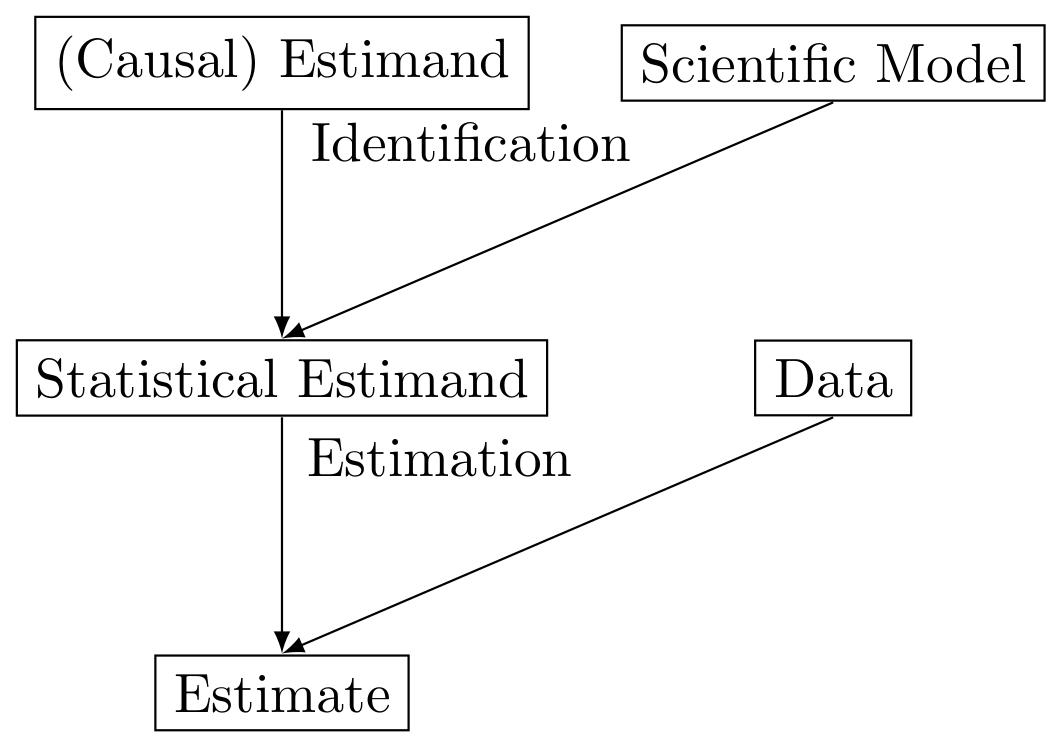
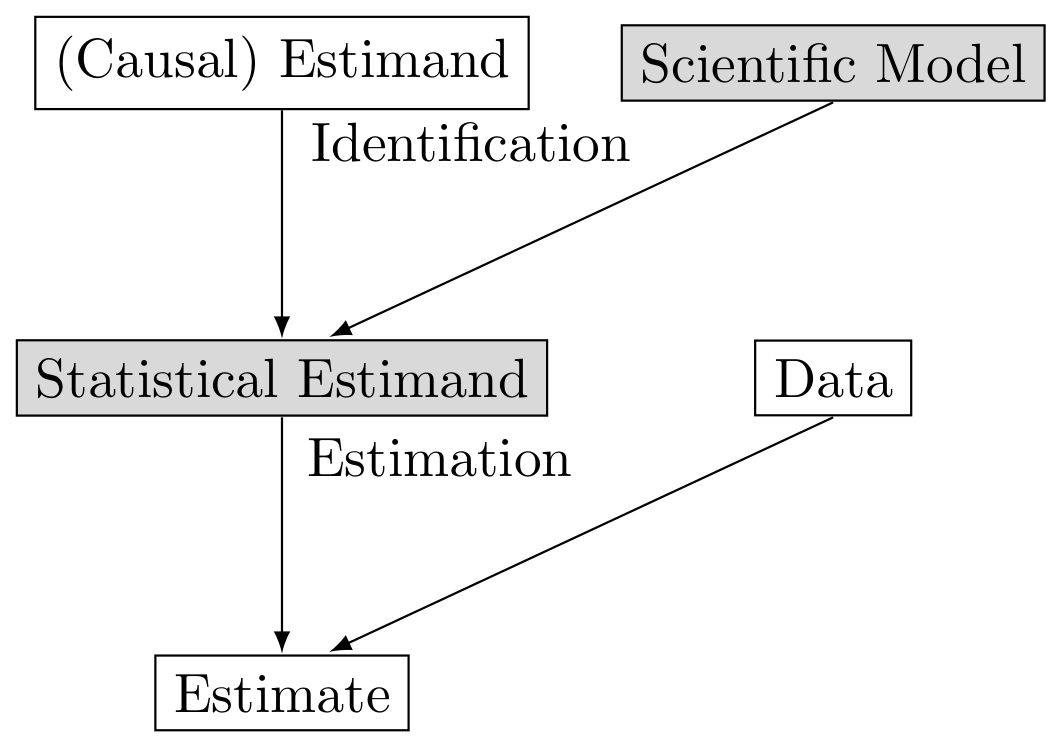
section:background,empirical; process:write,figures

diff --git a/images/tex/IEflow.tex b/images/tex/IEflow.tex
@@ -8,8 +8,8 @@
 \begin{tikzpicture}
     % nodes
     \node at (0,2) [rectangle,draw]  {(Causal) Estimand};
-    \node at (3.5,2) [rectangle,draw] {Scientific Model};
-    \node at (0,0) [rectangle,draw] {Statistical Estimand};
+    \node at (3.5,2) [rectangle,draw,fill={black!15}] {Scientific Model};
+    \node at (0,0) [rectangle,draw,fill={black!15}] {Statistical Estimand};
     \node at (3.5,0) [rectangle,draw] {Data};
     \node at (0,-2) [rectangle,draw] {Estimate};
     \node at (1.2,1.5) {Identification};
@@ -17,9 +17,9 @@
         
 	% paths
     \draw[-{latex}](0,1.7) to (0,0.25); % CE -> SE
-    \draw[-{latex}](3.5,1.75) to (0,0.25); % SM -> SE
+    \draw[-{latex}](3.5,1.75) to (0.3,0.26); % SM -> SE
     \draw[-{latex}](0,-0.25) to (0,-1.75); % SE -> E
-    \draw[-{latex}](3.5,-0.25) to (0,-1.75); % D -> E
+    \draw[-{latex}](3.5,-0.25) to (0.3,-1.74); % D -> E
     
 \end{tikzpicture}
 
